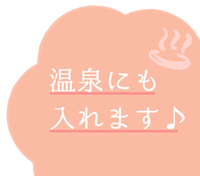
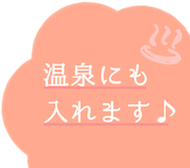
Fix

Changed region(s): [[0.0, 0.0, 1.0, 1.0], [0.2105, 0.3571, 0.7895, 0.5357], [0.2105, 0.5952, 0.9474, 0.744]]

diff --git a/web/public/assets/css/kinyu/campaign/ooedoonsen_joshikai_sp.css b/web/public/assets/css/kinyu/campaign/ooedoonsen_joshikai_sp.css
@@ -22,7 +22,7 @@
   width: 100%;
   font-size: 15px!important;
   line-height: 16px!important;
-  background: #ff8993;
+  background: #FBB79E;
   color: #fff;
   font-weight: bold;
   text-align: center;
